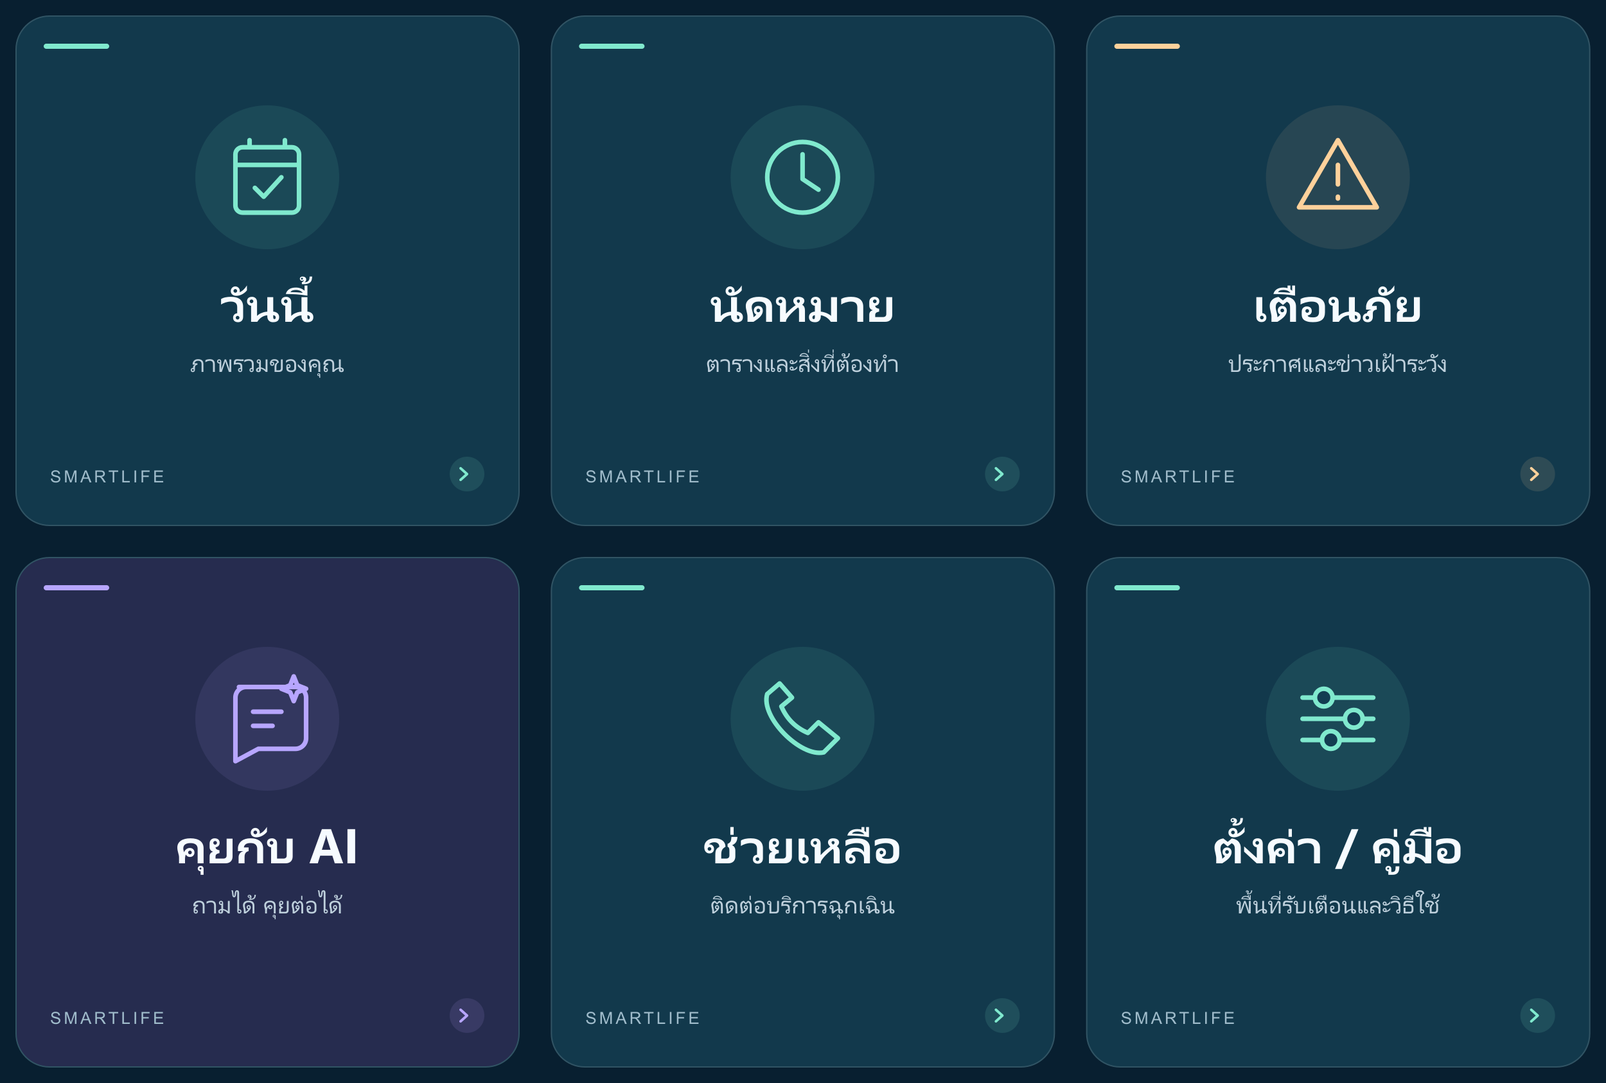
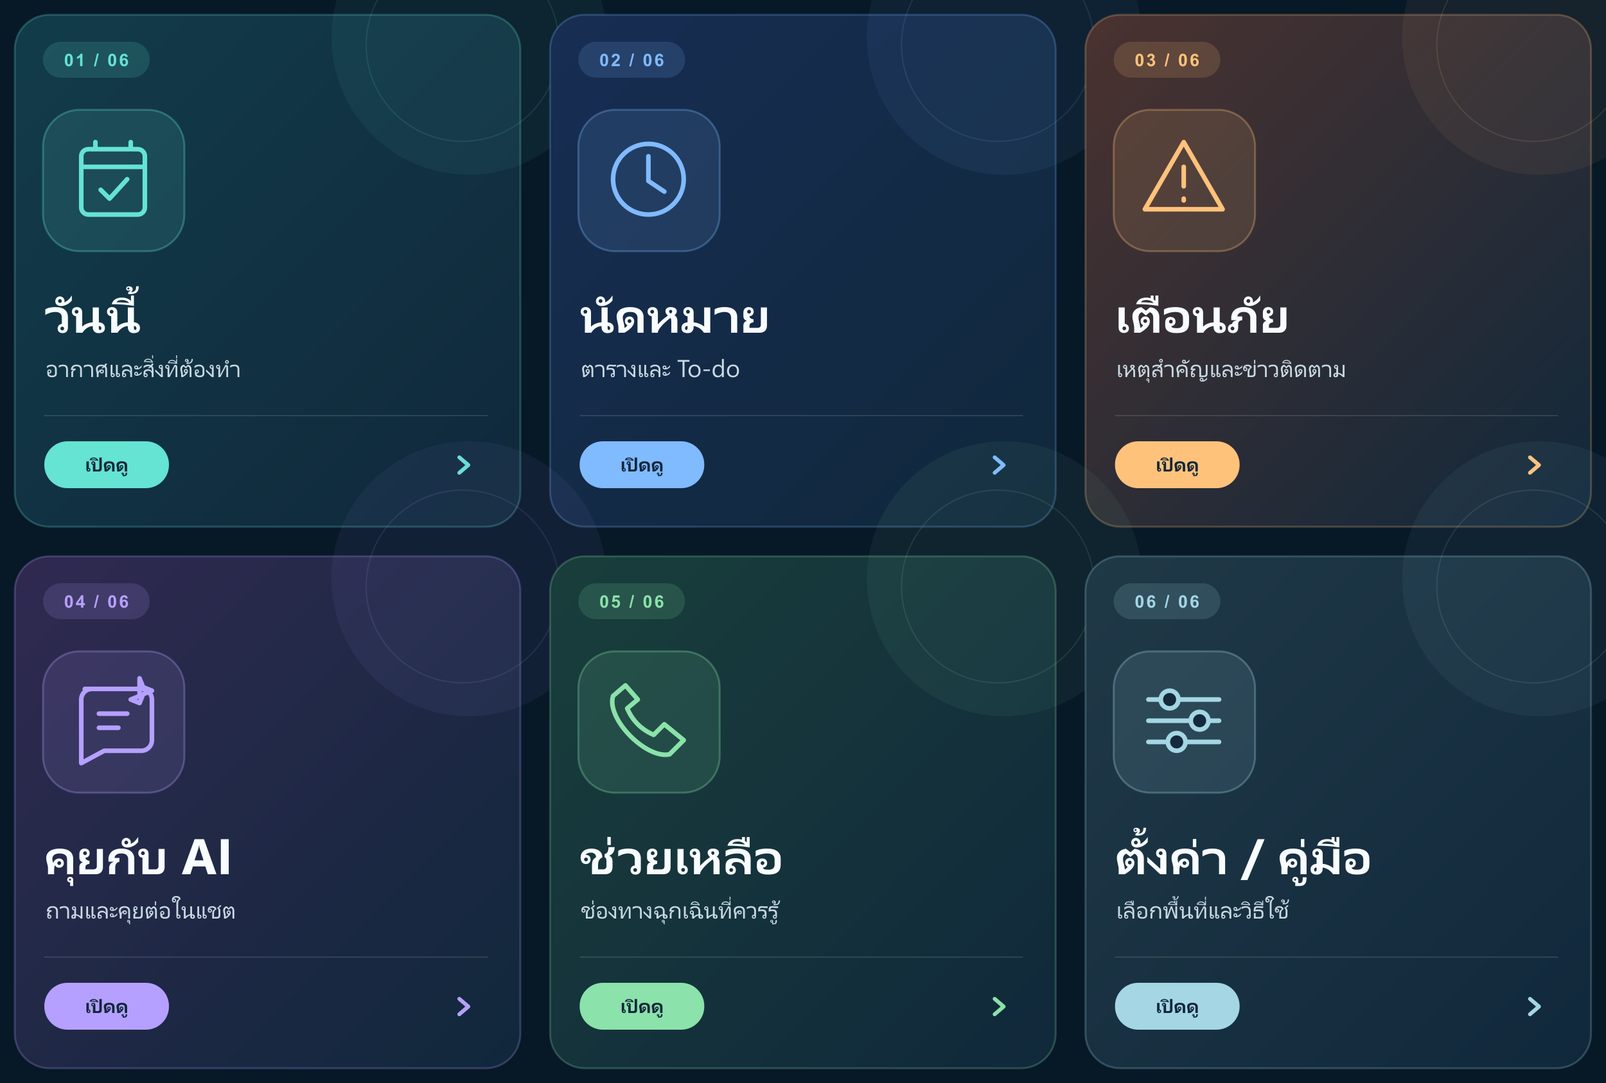
Group essential morning alerts and refresh LINE menu

diff --git a/scripts/setup-rich-menu.js b/scripts/setup-rich-menu.js
@@ -2,6 +2,8 @@ require('dotenv').config();
 
 const fs = require('fs');
 const path = require('path');
+const crypto = require('crypto');
+const { isDeepStrictEqual } = require('util');
 const axios = require('axios');
 const sharp = require('sharp');
 const config = require('../config');
@@ -9,13 +11,14 @@ const config = require('../config');
 const WIDTH = 2500;
 const HEIGHT = 1686;
 const OUTPUT = path.join(__dirname, '..', 'public', 'rich-menu.png');
+const STAGE_RECEIPT = path.join(__dirname, '..', 'rich-menu-stage.json');
 const items = [
-  { label: 'วันนี้', subtitle: 'ภาพรวมของคุณ', view: 'today', icon: '<path d="M18 7v4M38 7v4M10 21h36M14 11h28a4 4 0 0 1 4 4v29a4 4 0 0 1-4 4H14a4 4 0 0 1-4-4V15a4 4 0 0 1 4-4Z"/><path d="m21 34 5 5 10-11"/>' },
-  { label: 'นัดหมาย', subtitle: 'ตารางและสิ่งที่ต้องทำ', view: 'schedule', icon: '<circle cx="28" cy="28" r="20"/><path d="M28 15v14l9 6"/>' },
-  { label: 'เตือนภัย', subtitle: 'ประกาศและข่าวเฝ้าระวัง', view: 'alerts', icon: '<path d="M28 7 50 45H6Z"/><path d="M28 21v11M28 39v1"/>' },
-  { label: 'คุยกับ AI', subtitle: 'ถามได้ คุยต่อได้', text: 'คุยกับ AI', icon: '<path d="M12 10h32a6 6 0 0 1 6 6v23a6 6 0 0 1-6 6H23L10 52V16a6 6 0 0 1 6-6Z"/><path d="M20 24h16M20 32h11"/><path d="m43 4 2 5 5 2-5 2-2 5-2-5-5-2 5-2Z"/>' },
-  { label: 'ช่วยเหลือ', subtitle: 'ติดต่อบริการฉุกเฉิน', view: 'help', icon: '<path d="M15 8 8 14c-4 13 19 36 32 33l8-8-11-9-6 6c-7-3-12-8-15-15l6-5Z"/>' },
-  { label: 'ตั้งค่า / คู่มือ', subtitle: 'พื้นที่รับเตือนและวิธีใช้', view: 'guide', icon: '<path d="M8 16h40M8 28h40M8 40h40"/><circle cx="20" cy="16" r="5" fill="#133d52"/><circle cx="37" cy="28" r="5" fill="#133d52"/><circle cx="24" cy="40" r="5" fill="#133d52"/>' }
+  { label: 'วันนี้', subtitle: 'อากาศและสิ่งที่ต้องทำ', view: 'today', color: '#65e3d3', shade: '#123c4a', icon: '<path d="M18 7v4M38 7v4M10 21h36M14 11h28a4 4 0 0 1 4 4v29a4 4 0 0 1-4 4H14a4 4 0 0 1-4-4V15a4 4 0 0 1 4-4Z"/><path d="m21 34 5 5 10-11"/>' },
+  { label: 'นัดหมาย', subtitle: 'ตารางและ To-do', view: 'schedule', color: '#80baff', shade: '#172d53', icon: '<circle cx="28" cy="28" r="20"/><path d="M28 15v14l9 6"/>' },
+  { label: 'เตือนภัย', subtitle: 'เหตุสำคัญและข่าวติดตาม', view: 'alerts', color: '#ffc27b', shade: '#4b322f', icon: '<path d="M28 7 50 45H6Z"/><path d="M28 21v11M28 39v1"/>' },
+  { label: 'คุยกับ AI', subtitle: 'ถามและคุยต่อในแชต', text: 'คุยกับ AI', color: '#b6a0ff', shade: '#302951', icon: '<path d="M12 10h32a6 6 0 0 1 6 6v23a6 6 0 0 1-6 6H23L10 52V16a6 6 0 0 1 6-6Z"/><path d="M20 24h16M20 32h11"/><path d="m43 4 2 5 5 2-5 2-2 5-5-2 5-2Z"/>' },
+  { label: 'ช่วยเหลือ', subtitle: 'ช่องทางฉุกเฉินที่ควรรู้', view: 'help', color: '#8be2aa', shade: '#193e3b', icon: '<path d="M15 8 8 14c-4 13 19 36 32 33l8-8-11-9-6 6c-7-3-12-8-15-15l6-5Z"/>' },
+  { label: 'ตั้งค่า / คู่มือ', subtitle: 'เลือกพื้นที่และวิธีใช้', view: 'guide', color: '#a4d6e4', shade: '#203947', icon: '<path d="M8 16h40M8 28h40M8 40h40"/><circle cx="20" cy="16" r="5" fill="#142a3c"/><circle cx="37" cy="28" r="5" fill="#142a3c"/><circle cx="24" cy="40" r="5" fill="#142a3c"/>' }
 ];
 
 function buildAreas(liffBase) {
@@ -40,22 +43,26 @@ function buildSvg() {
   const cells = items.map((item, index) => {
     const x = (index % 3) * WIDTH / 3;
     const y = Math.floor(index / 3) * HEIGHT / 2;
-    const accent = index === 2 ? '#ffd19b' : index === 3 ? '#b7a6ff' : '#80e9ce';
-    const fill = index === 3 ? '#262c4f' : '#12394c';
+    const accent = item.color;
     return `<g transform="translate(${x},${y})">
-      <rect x="25" y="25" width="783" height="793" rx="52" fill="${fill}" stroke="#315464" stroke-width="2"/>
-      <rect x="68" y="68" width="102" height="8" rx="4" fill="${accent}"/>
-      <circle cx="416" cy="276" r="112" fill="${accent}" fill-opacity=".09"/>
-      <g transform="translate(339,199) scale(2.75)" fill="none" stroke="${accent}" stroke-width="2.6" stroke-linecap="round" stroke-linejoin="round">${item.icon}</g>
-      <text x="416" y="501" text-anchor="middle" font-family="Leelawadee UI,Noto Sans Thai,sans-serif" font-size="76" font-weight="700" fill="#f6fbff">${escapeXml(item.label)}</text>
-      <text x="416" y="579" text-anchor="middle" font-family="Leelawadee UI,Noto Sans Thai,sans-serif" font-size="39" fill="#bed0dc">${escapeXml(item.subtitle)}</text>
-      <text x="78" y="751" font-family="Arial,sans-serif" font-size="26" letter-spacing="4" fill="#a0bccb">SMARTLIFE</text>
-      <circle cx="727" cy="738" r="27" fill="${accent}" fill-opacity=".12"/>
-      <path d="m717 729 10 9-10 9" fill="none" stroke="${accent}" stroke-width="4" stroke-linecap="round" stroke-linejoin="round"/>
+      <rect x="23" y="23" width="787" height="797" rx="54" fill="url(#card${index})" stroke="${accent}" stroke-opacity=".24" stroke-width="3"/>
+      <circle cx="730" cy="58" r="214" fill="${accent}" fill-opacity=".06"/>
+      <circle cx="720" cy="70" r="150" fill="none" stroke="${accent}" stroke-opacity=".12" stroke-width="2"/>
+      <rect x="67" y="65" width="166" height="56" rx="28" fill="${accent}" fill-opacity=".15"/>
+      <text x="150" y="103" text-anchor="middle" font-family="Arial,sans-serif" font-size="27" font-weight="700" letter-spacing="3" fill="${accent}">0${index + 1} / 06</text>
+      <rect x="67" y="171" width="220" height="220" rx="57" fill="${accent}" fill-opacity=".12" stroke="${accent}" stroke-opacity=".3" stroke-width="3"/>
+      <g transform="translate(99,202) scale(2.75)" fill="none" stroke="${accent}" stroke-width="2.6" stroke-linecap="round" stroke-linejoin="round">${item.icon}</g>
+      <text x="69" y="518" font-family="Leelawadee UI,Noto Sans Thai,sans-serif" font-size="78" font-weight="700" fill="#f8fcff">${escapeXml(item.label)}</text>
+      <text x="71" y="587" font-family="Leelawadee UI,Noto Sans Thai,sans-serif" font-size="38" fill="#cad9e3">${escapeXml(item.subtitle)}</text>
+      <path d="M69 647H759" stroke="#ffffff" stroke-opacity=".12" stroke-width="2"/>
+      <rect x="69" y="687" width="194" height="73" rx="36" fill="${accent}"/>
+      <text x="166" y="734" text-anchor="middle" font-family="Leelawadee UI,Noto Sans Thai,sans-serif" font-size="31" font-weight="700" fill="#10273a">เปิดดู</text>
+      <path d="m715 712 14 12-14 12" fill="none" stroke="${accent}" stroke-width="6" stroke-linecap="round" stroke-linejoin="round"/>
     </g>`;
   }).join('');
   return `<svg xmlns="http://www.w3.org/2000/svg" width="${WIDTH}" height="${HEIGHT}" viewBox="0 0 ${WIDTH} ${HEIGHT}">
-    <rect width="100%" height="100%" fill="#081f30"/>${cells}</svg>`;
+    <defs>${items.map((item, index) => `<linearGradient id="card${index}" x1="0" y1="0" x2="1" y2="1"><stop stop-color="${item.shade}"/><stop offset="1" stop-color="#10283b"/></linearGradient>`).join('')}</defs>
+    <rect width="100%" height="100%" fill="#071827"/>${cells}</svg>`;
 }
 
 async function generateImage() {
@@ -71,8 +78,8 @@ async function setupRichMenu({ activate = true } = {}) {
   const liffBase = `https://liff.line.me/${config.liffId}`;
   const richMenu = {
     size: { width: WIDTH, height: HEIGHT },
-    selected: activate,
-    name: activate ? 'SmartLife Main 2026' : 'SmartLife Preview 2026',
+    selected: true,
+    name: activate ? 'SmartLife Focus 2026' : 'SmartLife Focus Preview 2026',
     chatBarText: 'เมนู SmartLife',
     areas: buildAreas(liffBase)
   };
@@ -93,19 +100,57 @@ async function setupRichMenu({ activate = true } = {}) {
       timeout: 20000
     });
   } else {
-    const receipt = { richMenuId, createdAt: new Date().toISOString(), activated: false, size: verified.data.size, areas: verified.data.areas };
-    fs.writeFileSync(path.join(__dirname, '..', 'rich-menu-stage.json'), JSON.stringify(receipt, null, 2) + '\n');
+    const image = await axios.get(`https://api-data.line.me/v2/bot/richmenu/${richMenuId}/content`, {
+      headers: { Authorization: `Bearer ${config.lineAccessToken}` }, responseType: 'arraybuffer', timeout: 20000
+    });
+    const hash = data => crypto.createHash('sha256').update(data).digest('hex');
+    const imageSha256 = hash(fs.readFileSync(OUTPUT));
+    if (hash(Buffer.from(image.data)) !== imageSha256) throw new Error('Uploaded rich menu image does not match local preview');
+    let previousDefaultRichMenuId = null;
+    try {
+      const previous = await axios.get('https://api.line.me/v2/bot/user/all/richmenu', { headers, timeout: 20000 });
+      previousDefaultRichMenuId = previous.data.richMenuId || null;
+    } catch (err) {
+      if (err.response?.status !== 404) throw err;
+    }
+    const receipt = { richMenuId, createdAt: new Date().toISOString(), activated: false, size: verified.data.size,
+      areas: verified.data.areas, previousDefaultRichMenuId, imageSha256, verifiedAt: new Date().toISOString() };
+    fs.writeFileSync(STAGE_RECEIPT, JSON.stringify(receipt, null, 2) + '\n');
   }
   console.log(JSON.stringify({ status: 'ok', activated: activate, richMenuId, image: OUTPUT }));
   return richMenuId;
 }
 
+async function activateStagedRichMenu() {
+  if (!config.lineAccessToken) throw new Error('LINE_ACCESS_TOKEN is not configured');
+  const receipt = JSON.parse(fs.readFileSync(STAGE_RECEIPT, 'utf8'));
+  if (!/^richmenu-[a-f0-9]{32}$/.test(receipt.richMenuId) || receipt.activated || receipt.areas?.length !== items.length ||
+      crypto.createHash('sha256').update(fs.readFileSync(OUTPUT)).digest('hex') !== receipt.imageSha256) {
+    throw new Error('No valid inactive staged rich menu');
+  }
+  const headers = { Authorization: `Bearer ${config.lineAccessToken}` };
+  const verified = await axios.get(`https://api.line.me/v2/bot/richmenu/${receipt.richMenuId}`, { headers, timeout: 20000 });
+  const expectedAreas = buildAreas(`https://liff.line.me/${config.liffId}`);
+  if (verified.data.size?.width !== WIDTH || verified.data.size?.height !== HEIGHT ||
+      !isDeepStrictEqual(verified.data.areas, expectedAreas)) {
+    throw new Error('Staged rich menu areas do not match current app links');
+  }
+  await axios.post(`https://api.line.me/v2/bot/user/all/richmenu/${receipt.richMenuId}`, null, { headers, timeout: 20000 });
+  receipt.activated = true;
+  receipt.activatedAt = new Date().toISOString();
+  fs.writeFileSync(STAGE_RECEIPT, JSON.stringify(receipt, null, 2) + '\n');
+  console.log(JSON.stringify({ status: 'ok', activated: true, richMenuId: receipt.richMenuId }));
+  return receipt.richMenuId;
+}
+
 if (require.main === module) {
-  const task = process.argv.includes('--preview') ? generateImage().then(output => console.log(output)) : setupRichMenu({ activate: !process.argv.includes('--stage') });
+  const task = process.argv.includes('--preview') ? generateImage().then(output => console.log(output))
+    : process.argv.includes('--activate-stage') ? activateStagedRichMenu()
+      : setupRichMenu({ activate: !process.argv.includes('--stage') });
   task.catch(err => {
     console.error(err.response?.data || err.message);
     process.exit(1);
   });
 }
 
-module.exports = { buildSvg, buildAreas, generateImage, setupRichMenu };
+module.exports = { buildSvg, buildAreas, generateImage, setupRichMenu, activateStagedRichMenu };

diff --git a/utils/line.js b/utils/line.js
@@ -307,40 +307,40 @@ function buildTodoMorningText(todoSummary = {}) {
 
 function buildMorningDigestText(weather = {}, events = [], todoSummary = {}, reportDate = new Date(), essentialAlerts = []) {
   const label = value => String(value || '').replace(/[\r\n\t]+/g, ' ').trim().slice(0, 100);
+  const alertCategory = { earthquake: 'แผ่นดินไหว', storm: 'พายุ/ฝนรุนแรง', severe_accident: 'อุบัติภัย' };
   const weatherParts = [];
   if (Number.isFinite(weather.tempMax)) weatherParts.push(`สูงสุด ${weather.tempMax}°C`);
   if (Number.isFinite(weather.rainChance)) weatherParts.push(`ฝน ${weather.rainChance}%`);
   if (Number.isFinite(weather.pm25)) weatherParts.push(`PM2.5 ${weather.pm25} µg/m³`);
-  const lines = [
-    `SmartLife เช้า ${getBangkokDateKey(reportDate)}`,
-    weatherParts.length ? `อากาศ: ${weatherParts.join(' · ')}` : 'อากาศ: ยังดึงข้อมูลไม่ได้',
-  ];
+  const lines = [`SmartLife เช้า ${getBangkokDateKey(reportDate)}`];
   const todayEvents = Array.isArray(events) ? events : [];
-  if (todayEvents.length) {
-    lines.push('นัดหมายวันนี้:');
-    todayEvents.slice(0, 3).forEach(event => lines.push(`• ${label(event.start)} ${label(event.summary)}`));
-    if (todayEvents.length > 3) lines.push(`และอีก ${todayEvents.length - 3} นัด — ดูเมนูวันนี้`);
-  } else {
-    lines.push('ไม่มีนัดหมายวันนี้');
-  }
+  const overdue = Array.isArray(todoSummary.overdue) ? todoSummary.overdue : [];
   const tasks = (Array.isArray(todoSummary.today) ? [...todoSummary.today] : [])
-    .sort((a, b) => Number(b.priority === 'high') - Number(a.priority === 'high'));
-  if (tasks.length) {
-    lines.push(`งานวันนี้: ${tasks.slice(0, 3).map(task => label(task.title)).join(' / ')}`);
-    if (tasks.length > 3) lines.push(`และอีก ${tasks.length - 3} งาน — ดูเมนูวันนี้`);
+    .sort((a, b) => Number(['urgent', 'high'].includes(b.priority)) - Number(['urgent', 'high'].includes(a.priority)));
+  if (todayEvents.length || overdue.length || tasks.length) {
+    lines.push('ต้องทำ:');
+    todayEvents.slice(0, 3).forEach(event => lines.push(`• ${label(event.start)} ${label(event.summary)}`));
+    if (todayEvents.length > 3) lines.push(`• อีก ${todayEvents.length - 3} นัดหมาย`);
+    overdue.slice(0, 2).forEach(task => lines.push(`• งานค้าง: ${label(task.title)}`));
+    if (overdue.length > 2) lines.push(`• อีก ${overdue.length - 2} งานค้าง`);
+    tasks.slice(0, 3).forEach(task => lines.push(`• งานวันนี้: ${label(task.title)}`));
+    if (tasks.length > 3) lines.push(`• อีก ${tasks.length - 3} งานวันนี้`);
   }
+  lines.push(weatherParts.length ? `อากาศ: ${weatherParts.join(' · ')}` : 'อากาศ: ยังดึงข้อมูลไม่ได้');
   if (essentialAlerts.length) {
-    lines.push('ประกาศสำคัญ:');
+    lines.push('เตือนภัยสำคัญ:');
     essentialAlerts.slice(0, 3).forEach(alert => lines.push(
-      `• ${alert.isIndexedNews ? 'ข่าวเฝ้าระวัง: ' : ''}${label(alert.title)}${alert.areaText ? ` · ${label(alert.areaText)}` : ''} (${label(alert.source)})`
+      `• ${alert.isIndexedNews ? 'ข่าวเฝ้าระวัง' : alertCategory[alert.type] || 'เหตุสำคัญ'}: ${label(alert.title)}${alert.areaText ? ` · ${label(alert.areaText)}` : ''}${alert.source ? ` (${label(alert.source)})` : ''}`
     ));
-    lines.push('ดูต้นทางและเวลาประกาศในเมนูเตือนภัย');
   }
   if (weatherParts.length && weather.source && weather.source !== 'fallback') {
     const observed = weather.observedAt ? new Date(weather.observedAt) : new Date(NaN);
     lines.push(`ที่มา: ${label(weather.source)}${Number.isNaN(observed.getTime()) ? '' : ` · ${formatBangkokDateTime(observed)}`}`);
     if (weather.sourceUrl && /^https:\/\//.test(weather.sourceUrl)) lines.push(weather.sourceUrl);
     if (weather.licenseUrl && /^https:\/\//.test(weather.licenseUrl)) lines.push(`เครดิต CC BY 4.0: ${weather.licenseUrl}`);
+  }
+  if (todayEvents.length || overdue.length || tasks.length || essentialAlerts.length) {
+    lines.push('รายละเอียด: เมนูวันนี้ / เตือนภัย');
   }
   return lines.join('\n');
 }

diff --git a/tests/morning-budget.test.js b/tests/morning-budget.test.js
@@ -110,8 +110,10 @@ test('compact digest contains essentials, prioritizes important tasks and stays 
   }, midMonth);
   assert.ok(text.includes('SmartLife เช้า 2026-10-17'));
   assert.ok(text.includes('สูงสุด 32°C'));
-  assert.ok(text.includes('และอีก 4 นัด'));
+  assert.ok(text.includes('อีก 4 นัดหมาย'));
   assert.ok(text.indexOf('งานสำคัญ') < text.indexOf('งานทั่วไป'));
+  assert.ok(text.includes('ต้องทำ:'));
+  assert.ok(!text.includes('จะลงบันทึก'));
   assert.ok(text.length < 4500);
   assert.ok(!text.includes('ดัชนีความร้อน'));
 });
@@ -119,7 +121,8 @@ test('compact digest contains essentials, prioritizes important tasks and stays 
 test('compact digest does not invent missing weather or appointments', () => {
   const text = buildMorningDigestText({ source: 'fallback' }, [], {}, midMonth);
   assert.ok(text.includes('ยังดึงข้อมูลไม่ได้'));
-  assert.ok(text.includes('ไม่มีนัดหมายวันนี้'));
+  assert.ok(!text.includes('ต้องทำ:'));
+  assert.ok(!text.includes('เตือนภัยสำคัญ:'));
   assert.ok(!text.includes('0°C'));
   assert.ok(!text.includes('ที่มา: fallback'));
   const unknownDate = buildMorningDigestText({ tempMax: 30, source: 'TEST SOURCE', observedAt: null }, [], {}, midMonth);
@@ -181,7 +184,10 @@ function loadCron(mode = 'morning-only', plan = { status: 'ready', recipients: i
     },
     './utils/weather': { getReport: async () => { if(options.weatherError)throw options.weatherError;return { tempMax: 30, pm25: null, rainChance: null, temp: null }; } },
     './utils/appointments': { getToday: async () => [] },
-    './utils/todos': { getToday: async () => [] },
+    './utils/todos': {
+      getToday: async date => { state.todoTodayQueryDate = date; return options.todayTodos || []; },
+      getOverdue: async () => options.overdueTodos || [],
+    },
     './utils/alerts': { listActiveUrgentAlerts: async () => [],
       listUnsentUrgentAlerts: async () => { throw new Error('Unexpected alert push'); } },
     './utils/liveDisasters': { fetchLiveDisasterAlertCandidates: async () => [] },
@@ -217,7 +223,18 @@ test('successful digest goes only to budget-selected recipients once per day', a
   assert.equal(state.sends.length, 1);
   assert.equal(state.sends[0][3], ids[1]);
   assert.equal(state.sends[0][4].compact, true);
+  assert.equal(state.todoTodayQueryDate.toISOString(), '2026-10-16T17:00:00.000Z');
   assert.equal(state.run.status, 'success');
+});
+
+test('morning digest includes overdue work without extra pushes', async () => {
+  const { cron, state } = loadCron('morning-only', { status: 'ready', recipients: [ids[0]] }, {
+    overdueTodos: [{ title: 'งานค้างสำคัญ', priority: 'high' }],
+  });
+  assert.equal(await cron.sendDailyMorningReport(midMonth), true);
+  assert.equal(state.sends.length, 1);
+  const text = buildMorningDigestText({}, [], state.sends[0][2], midMonth);
+  assert.ok(text.includes('งานค้าง: งานค้างสำคัญ'));
 });
 
 test('quota exhaustion defers instead of sending or retrying every minute', async () => {
@@ -272,6 +289,9 @@ test('essential alerts exclude watch, inactive, unrelated and opted-out records'
   ], alert => alert.title !== 'opted out');
   assert.deepEqual(selected.map(item => item.title), ['TEST IMPORTANT', 'TEST NEWS']);
   assert.equal(selected[1].isIndexedNews, true);
+  const text = buildMorningDigestText({}, [], {}, midMonth, selected);
+  assert.ok(text.includes('แผ่นดินไหว: TEST IMPORTANT'));
+  assert.ok(text.includes('ข่าวเฝ้าระวัง: TEST NEWS'));
 });
 
 test('essential alert summary is limited to three and remains in a single compact text', () => {
@@ -280,7 +300,8 @@ test('essential alert summary is limited to three and remains in a single compac
   })));
   assert.equal(selected.length, 3);
   const text = buildMorningDigestText({}, [], {}, midMonth, selected);
-  assert.ok(text.includes('ประกาศสำคัญ:'));
+  assert.ok(text.includes('เตือนภัยสำคัญ:'));
+  assert.ok(text.includes('พายุ/ฝนรุนแรง:'));
   assert.ok(!text.includes('TEST NOTICE 3'));
   assert.ok(text.length < 4500);
 });

diff --git a/cron.js b/cron.js
@@ -100,6 +100,7 @@ function getItemRecipient(item) {
 async function sendMorningReport(baseDate = new Date(), selectedRecipients = null) {
   try {
     const dateKey = getBangkokDateKey(baseDate);
+    const dayStart = new Date(`${dateKey}T00:00:00+07:00`);
     const recipients = selectedRecipients || (await morningBudget.checkMorningBudget(
       await getActiveLineRecipients({ morningReportOnly: true }), baseDate
     )).recipients;
@@ -112,7 +113,8 @@ async function sendMorningReport(baseDate = new Date(), selectedRecipients = nul
     for (const recipient of recipients) {
       try {
         const appointmentsToday = await appointments.getToday(baseDate, { lineUserId: recipient });
-        const todosToday = await todos.getToday(baseDate, { lineUserId: recipient });
+        const todosToday = await todos.getToday(dayStart, { lineUserId: recipient });
+        const overdueTodos = await todos.getOverdue(baseDate, { lineUserId: recipient });
         const profile = await lineRecipient.getLineRecipient(recipient);
         const essentialAlerts = selectEssentialAlerts(activeAlerts,
           alert => lineRecipient.matchesAlertPreferences(profile, alert));
@@ -130,7 +132,13 @@ async function sendMorningReport(baseDate = new Date(), selectedRecipients = nul
             responsible: item.responsible,
             priority: item.priority || 'normal'
           })),
-          overdue: []
+          overdue: overdueTodos.map(item => ({
+            id: item._id,
+            title: item.title || '-',
+            dueAt: item.dueAt,
+            responsible: item.responsible,
+            priority: item.priority || 'normal'
+          }))
         };
 
         await line.sendMorningGreeting({

diff --git a/utils/essentialAlerts.js b/utils/essentialAlerts.js
@@ -9,6 +9,7 @@ function selectEssentialAlerts(alerts, matchesPreferences = () => true) {
   ).sort((a, b) =>
     RANK[String(b.severity).toLowerCase()] - RANK[String(a.severity).toLowerCase()]
   ).slice(0, 3).map(alert => ({
+    type: alert.type,
     title: alert.title || alert.type,
     areaText: alert.areaText || '',
     source: alert.source || '',
